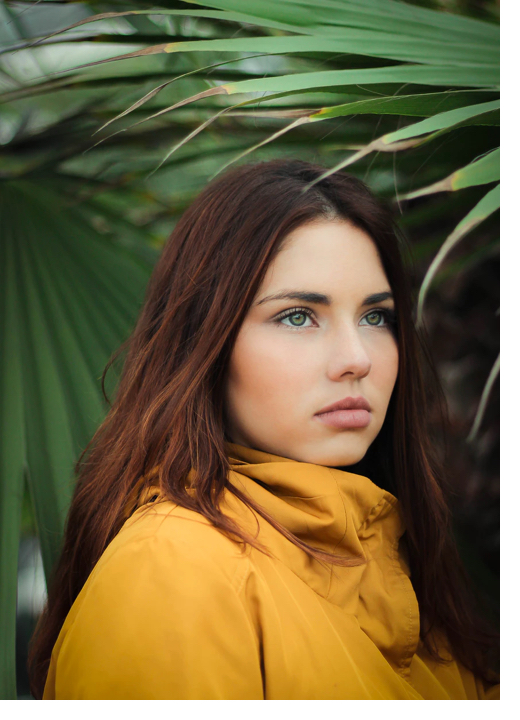
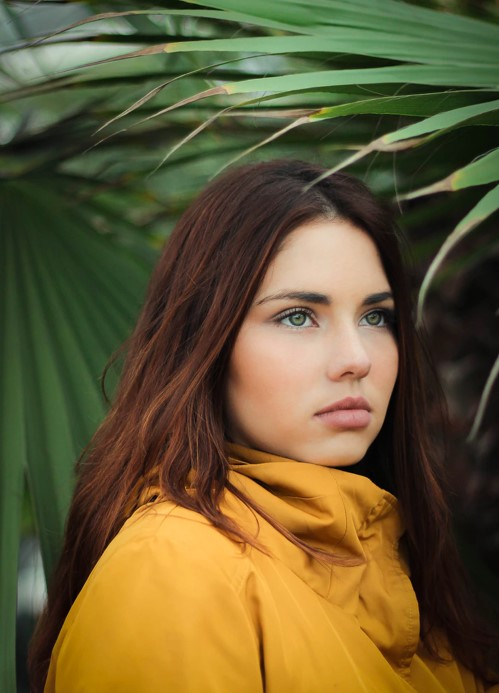
css styles done

diff --git a/styles/style.css b/styles/style.css
@@ -235,6 +235,96 @@ html {
   overflow: hidden;
 }
 
+header {
+  height: 100vh;
+}
+
+header .heading {
+  display: -webkit-box;
+  display: -ms-flexbox;
+  display: flex;
+  -webkit-box-pack: justify;
+      -ms-flex-pack: justify;
+          justify-content: space-between;
+  -webkit-box-align: center;
+      -ms-flex-align: center;
+          align-items: center;
+  margin-top: 5vh;
+}
+
+header .heading h1 {
+  position: relative;
+  left: -70px;
+}
+
+header .heading .main-img {
+  -webkit-box-shadow: 20px 20px #ffffff;
+          box-shadow: 20px 20px #ffffff;
+  position: relative;
+  top: 30px;
+}
+
+.article-one {
+  background-color: #F6F6F6;
+}
+
+.article-one .wrapper {
+  display: -webkit-box;
+  display: -ms-flexbox;
+  display: flex;
+  -webkit-box-orient: vertical;
+  -webkit-box-direction: normal;
+      -ms-flex-direction: column;
+          flex-direction: column;
+  -webkit-box-align: center;
+      -ms-flex-align: center;
+          align-items: center;
+  padding: 10vh 0;
+}
+
+.article-one .wrapper p {
+  margin: 4vh 0;
+  text-align: center;
+}
+
+.article-one .wrapper button {
+  margin-bottom: 7vh;
+}
+
+.section-one {
+  display: -webkit-box;
+  display: -ms-flexbox;
+  display: flex;
+}
+
+.section-one .article-two {
+  margin-left: 6vw;
+  display: -webkit-box;
+  display: -ms-flexbox;
+  display: flex;
+  -webkit-box-orient: vertical;
+  -webkit-box-direction: normal;
+      -ms-flex-direction: column;
+          flex-direction: column;
+  -webkit-box-pack: end;
+      -ms-flex-pack: end;
+          justify-content: flex-end;
+}
+
+.section-one .article-two p {
+  margin: 4vh 0;
+}
+
+.section-one .article-two button {
+  -ms-flex-item-align: start;
+      align-self: flex-start;
+}
+
+.section-one .article-two,
+.section-one img {
+  width: calc(50% - 3vw);
+}
+
 h1,
 h2,
 h3,
@@ -293,6 +383,11 @@ h1 {
   line-height: 29px;
 }
 
+.top-nav a:hover,
+.top-nav a:focus {
+  color: #E4A436;
+}
+
 h1,
 h2,
 h3,
@@ -316,7 +411,7 @@ p {
 }
 
 h1 {
-  font-size: 8rem;
+  font-size: 16rem;
 }
 
 h2 {
@@ -346,9 +441,32 @@ header {
 }
 
 button,
-input[type=sybmit] {
+input[type=submit] {
   background-color: #E4A436;
   border: none;
   cursor: pointer;
   padding: 5px 15px;
+}
+
+button:hover,
+input[type=submit]:hover,
+button:focus,
+input[type=submit]:focus {
+  background-color: #709B6B;
+}
+
+.top-nav ul {
+  display: -webkit-box;
+  display: -ms-flexbox;
+  display: flex;
+  -webkit-box-pack: center;
+      -ms-flex-pack: center;
+          justify-content: center;
+  -webkit-box-align: center;
+      -ms-flex-align: center;
+          align-items: center;
+}
+
+.top-nav ul li {
+  margin: 0 20px;
 }

diff --git a/index.html b/index.html
@@ -31,7 +31,7 @@
         <div class="heading wrapper">
             <img src="assets/circle-text.png" alt="">
             <h1>willow</h1>
-            <img src="assets/home-image-1.jpg" alt="headshot of a person with wide green eyes standing between the branches of palm trees and gazing onto the horizon">
+            <img class="main-img" src="assets/home-image-1.jpg" alt="headshot of a person with wide green eyes standing between the branches of palm trees and gazing onto the horizon">
         </div>
     </header>
 
@@ -48,9 +48,7 @@
         </article>
 
         <section class="section-one wrapper">
-            <div class="img-cont img-cont1">
-                <img src="assets/home-image-2.jpg" alt="a suspended pedestrian bridge between two bushy hills in front of a waterfall in a rainforest">
-            </div>
+            <img src="assets/home-image-2.jpg" alt="a suspended pedestrian bridge between two bushy hills in front of a waterfall in a rainforest">
             <article class="article-two">
                 <h3>favourite things</h3>
                 <p>Lorem ipsum dolor sit amet, consectetur adipisicing elit. Corporis porro non quo. Recusandae tempora

diff --git a/styles/scss/_home.scss b/styles/scss/_home.scss
@@ -1,0 +1,57 @@
+// header layout
+header {
+    height: 100vh;
+    .heading {
+        display: flex;
+        justify-content: space-between;
+        align-items: center;
+        margin-top: 5vh;
+        h1 {
+            position: relative;
+            left: -70px;
+        }
+        .main-img {
+            box-shadow: 20px 20px #ffffff ;
+            position: relative;
+            top: 30px;
+        }
+    }
+}
+// main layout
+// article one layout
+.article-one {
+    background-color: #F6F6F6;
+    .wrapper {
+        display: flex;
+        flex-direction: column;
+        align-items: center;
+        padding: 10vh 0;
+        p {
+            margin: 4vh 0;
+            text-align: center;
+        }
+        button {
+            margin-bottom: 7vh;
+        }
+    }
+}
+.section-one {
+    display: flex;
+    .article-two {
+        margin-left: 6vw;
+        display: flex;
+        flex-direction: column;
+        justify-content: flex-end;
+        p {
+            margin: 4vh 0;
+
+        }
+        button {
+            align-self: flex-start;
+        }
+    }
+    .article-two,
+    img {
+        width: calc(50% - 3vw);
+    }
+}

diff --git a/styles/scss/style.scss b/styles/scss/style.scss
@@ -1,4 +1,5 @@
 @import "setup";
+@import "home";
 
 // @mixin mq-tablet {
 //     @media (max-width: 1023px) {
@@ -70,6 +71,10 @@ h1 {
     font-weight: bold;
     line-height: 29px;
 }
+.top-nav a:hover,
+.top-nav a:focus {
+    color: #E4A436;
+}
 h1,
 h2,
 h3,
@@ -90,7 +95,7 @@ p {
     line-height: 32px;
 }
 h1 {
-    font-size: 8rem;
+    font-size: 16rem;
 }
 h2 {
     font-size: 4.2rem;
@@ -114,10 +119,24 @@ header {
     text-align: center;
 }
 button,
-input[type=sybmit] {
+input[type=submit] {
     background-color: #E4A436;
     border: none;
     cursor: pointer;
     padding: 5px 15px;
 }
+button:hover,
+input[type=submit]:hover,
+button:focus,
+input[type=submit]:focus {
+    background-color: #709B6B;
+}
 // general cross-page layouts
+.top-nav ul {
+    display: flex;
+    justify-content: center;
+    align-items: center;
+    li {
+        margin: 0 20px;
+    }
+}

diff --git a/blog.html b/blog.html
@@ -42,10 +42,10 @@
             <div>
                 <h3>recent posts</h3>
                 <ul>
-                    <li>Lorem ipsum dolor sit.</li>
-                    <li>Lorem ipsum dolor sit.</li>
-                    <li>Lorem ipsum dolor sit.</li>
-                    <li>Lorem ipsum dolor sit.</li>
+                    <li><p>Lorem ipsum dolor sit.</p></li>
+                    <li><p>Lorem ipsum dolor sit.</p></li>
+                    <li><p>Lorem ipsum dolor sit.</p></li>
+                    <li><p>Lorem ipsum dolor sit.</p></li>
                 </ul>
             </div>
         </aside>

diff --git a/contact.html b/contact.html
@@ -28,7 +28,7 @@
                 <li><a href="#contact">contact</a></li>
             </ul>
         </nav class="top-nav">
-        <h1>blog & news</h1>
+        <h1>contact me</h1>
     </header>
     <main>
         <aside class="social-links">
@@ -77,7 +77,7 @@
         </form>
     </main>
     <footer>
-        <p class="footer-copyright">copyright <span>&#169;</span> 2018 HackerYou</p class="footer-copyright">
+        <p class="footer-copyright">Copyright <span>&#169;</span> 2018 HackerYou</p class="footer-copyright">
     </footer>
 </body>
 </html>
